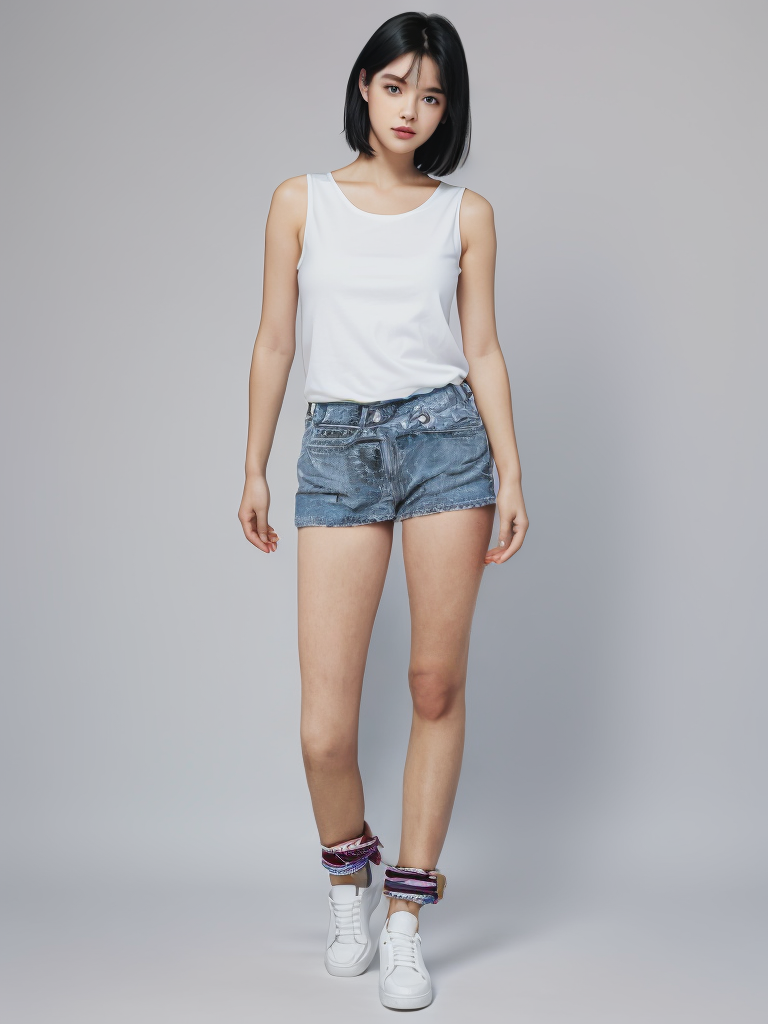
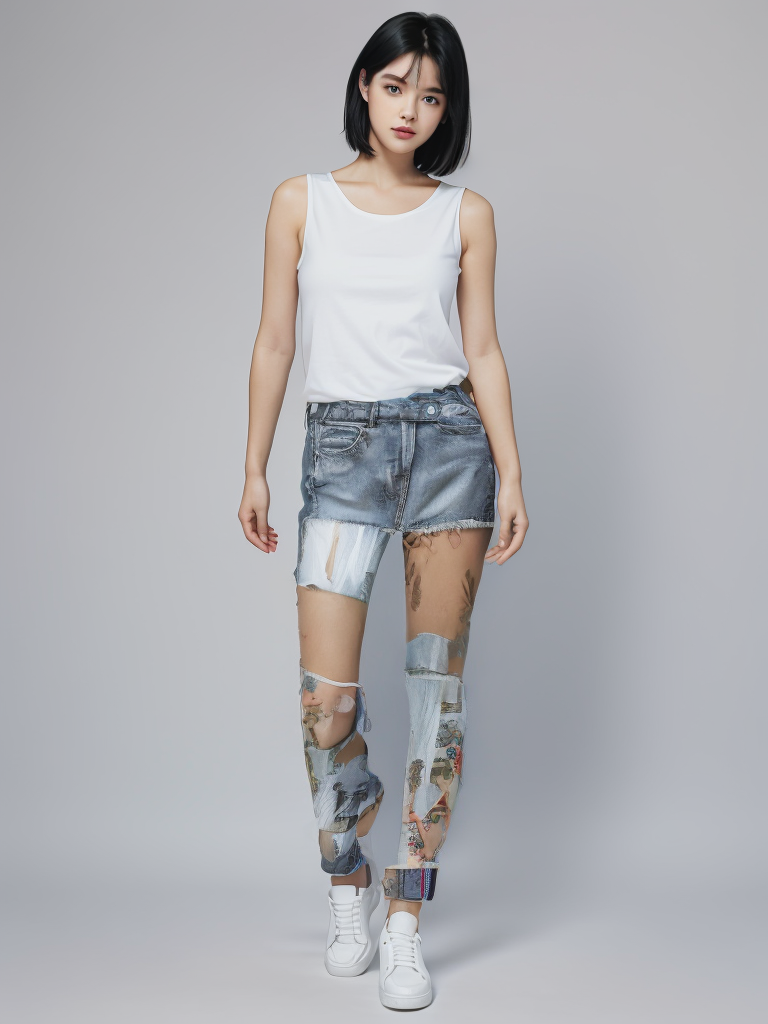
added basic frontend + Split classes into separate modules and organize code structure

Changed region(s): [[0.375, 0.375, 0.6562, 0.9062]]

diff --git a/frontend/popup.js b/frontend/popup.js
@@ -1,0 +1,23 @@
+// Handle user interactions and communicate with the backend.
+
+document.getElementById('process-btn').addEventListener('click', async () => {
+    const userImage = document.getElementById('user-image').files[0];
+    if (userImage) {
+        const formData = new FormData();
+        formData.append('user_image', userImage);
+
+        const response = await fetch('http://localhost:8000/process', {
+            method: 'POST',
+            body: formData
+        });
+
+        if (response.ok) {
+            const result = await response.json();
+            document.getElementById('result').innerHTML = `<img src="${result.image_url}" />`;
+        } else {
+            console.error('Error processing image');
+        }
+    } else {
+        console.error('No image selected');
+    }
+});

diff --git a/frontend/poc_page.html b/frontend/poc_page.html
@@ -1,0 +1,15 @@
+<!DOCTYPE html>
+<html>
+<head>
+  <title>Outfit Planner</title>
+  <link rel="stylesheet" href="styles.css">
+</head>
+<body>
+  <h1>Outfit Planner</h1>
+  <input type="file" id="user-image" accept="image/*" />
+  <br><br>
+  <button id="process-btn">Process</button>
+  <div id="result"></div>
+  <script src="popup.js"></script>
+</body>
+</html>

diff --git a/backend/model_processor.py b/backend/model_processor.py
@@ -1,0 +1,34 @@
+from gradio_client import Client, file
+import requests
+from PIL import Image
+from io import BytesIO
+import os
+from image_manager import ImageManager
+
+
+class ModelProcessor:
+    model_image = "C:\\Users\\Nofar\\year4SemB\\FromIdeaToApp\\outfit-planner\\backend\\modelsImages\\model4.png"
+    garment_image = "C:\\Users\\Nofar\\year4SemB\\FromIdeaToApp\\outfit-planner\\backend\\\garmentsImages\\garment7.jpg"
+
+    @staticmethod
+    def process_image(model_image_path=model_image, garment_image_path=garment_image, category="Lower-body", images=1, steps=20, guidance_scale=1, seed=-1):
+        # Initialize the Gradio client
+        client = Client("https://levihsu-ootdiffusion.hf.space/--replicas/iif7h/")
+
+        for i in range(1,3):
+            # Make the API call
+            result = client.predict(
+                file(model_image_path),  # Use gradio_client.file() to specify the file path
+                file(garment_image_path),  # Use gradio_client.file() to specify the file path
+                category, # Literal['Upper-body', 'Lower-body', 'Dress'] in 'Garment category (important option!!!)'
+                images, # float (numeric value between 1 and 4) in 'Images' Slider component
+                steps, # float (numeric value between 20 and 40) in 'Steps' Slider component
+                guidance_scale, # float (numeric value between 1.0 and 5.0) in 'Guidance scale' Slider component
+                seed,  # float (numeric value between -1 and 2147483647) in 'Seed' Slider component
+                api_name="/process_dc"
+            )
+
+            # print(result)
+            original_img_path = result[0]['image']
+            # extracted_path = result[0]['image'].replace("\\\\", "\\")
+            ImageManager.move_image(original_img_path, i)

diff --git a/backend/image_manager.py b/backend/image_manager.py
@@ -1,0 +1,29 @@
+from gradio_client import Client, file
+import requests
+from PIL import Image
+from io import BytesIO
+import shutil
+import os
+
+class ImageManager:
+    
+    # Move the result image to the resultImages folder
+    @staticmethod
+    def move_image(original_img_path, counter):
+        filename_without_extension, extension = os.path.splitext(os.path.basename(original_img_path))
+        # filename = os.path.basename(original_img_path)
+        new_filename = f"{filename_without_extension}_{counter}{extension}"
+        # Define the new path including the filename
+        destination_path = os.path.join("C:\\Users\\Nofar\\year4SemB\\FromIdeaToApp\\outfit-planner\\backend\\resultImages", new_filename)
+        # Rename (move) the file
+        # os.rename(original_img_path, destination_path)
+        
+        # Use shutil.move to overwrite the file if it already exists
+        shutil.move(original_img_path, destination_path)
+
+
+    @staticmethod
+    def take_input_images():
+        model_image_path = "C:\\Users\\Nofar\\year4SemB\\FromIdeaToApp\\outfit-planner\\backend\\modelsImages\\model4.png"
+        garment_image_path = "C:\\Users\\Nofar\\year4SemB\\FromIdeaToApp\\outfit-planner\\backend\\garmentsImages\\garment7.jpg"
+        return model_image_path, garment_image_path

diff --git a/backend/main.py b/backend/main.py
@@ -1,0 +1,14 @@
+from fastapi import FastAPI
+from model_processor import ModelProcessor
+import uvicorn
+
+app = FastAPI()
+
+def main():
+    ModelProcessor.process_image()
+
+
+
+if __name__ == "__main__":
+    main()
+    # uvicorn.run(app, host="0.0.0.0", port=8000)
